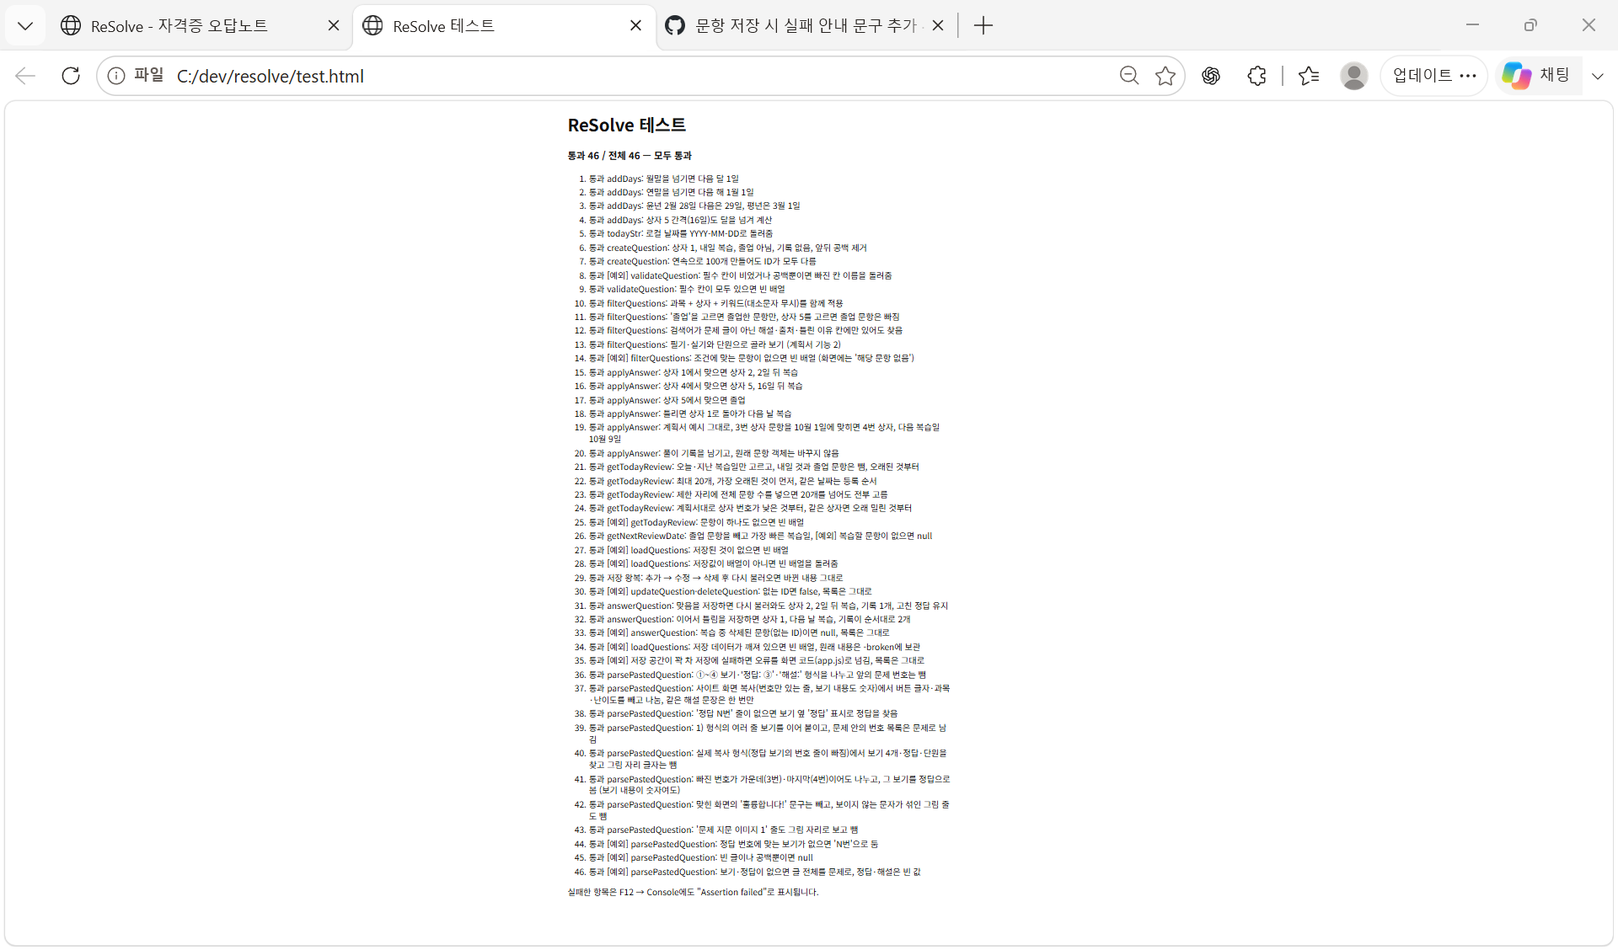
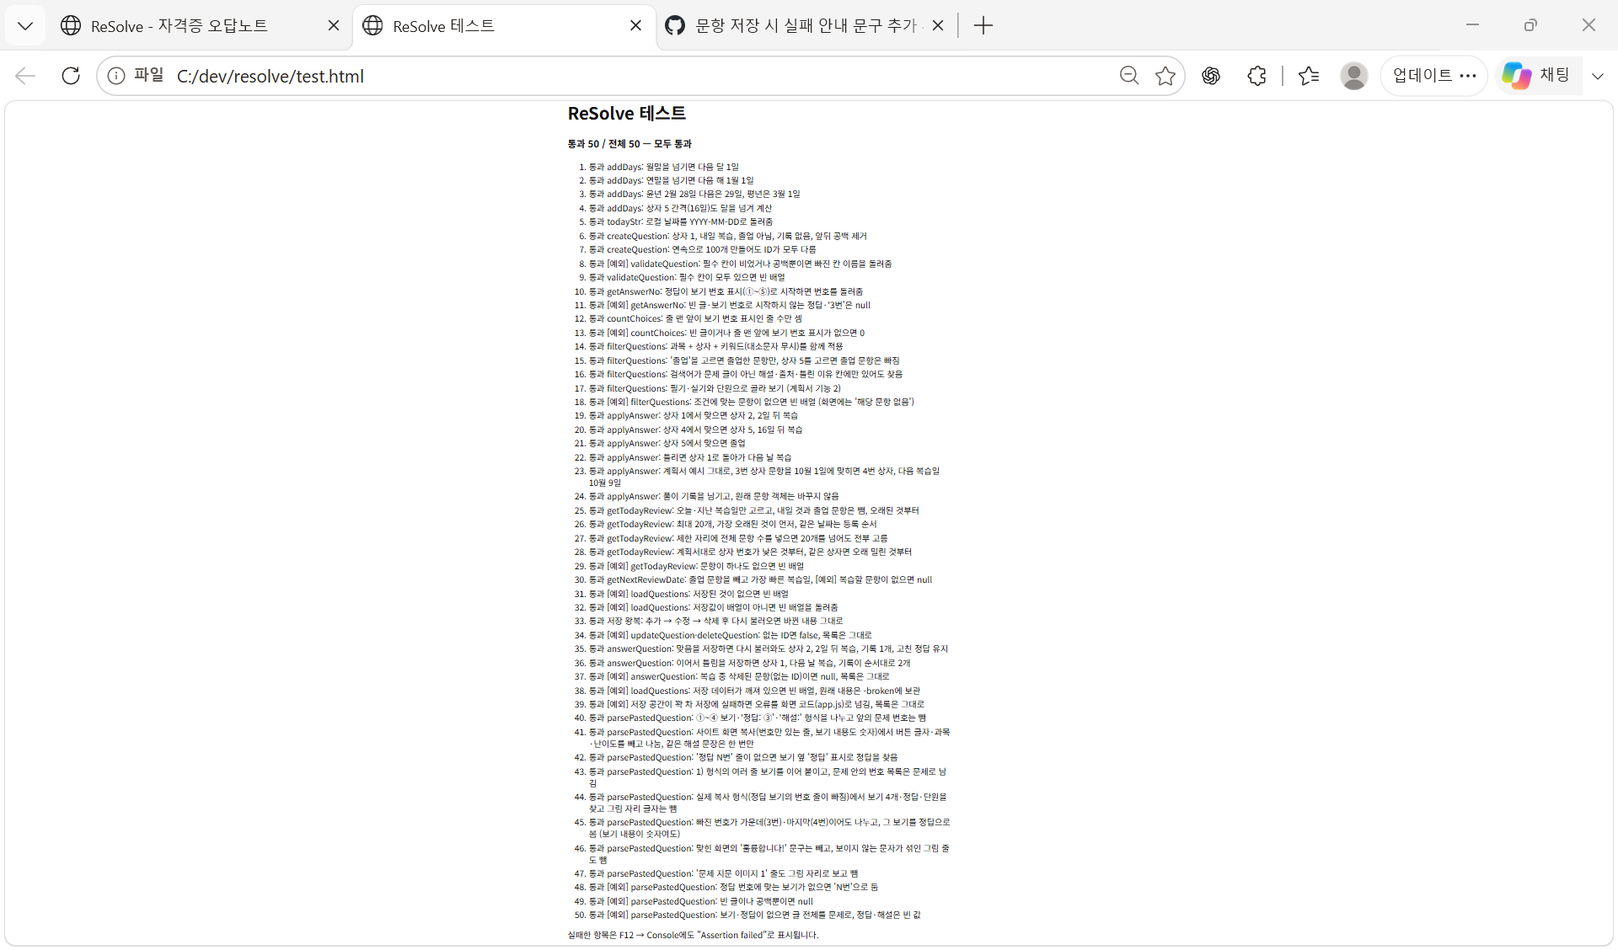
객관식 문항은 보기 번호를 골라 바로 채점하는 기능 추가 (테스트 46개 → 50개)
- 정답이 보기 번호로 시작하고 문제에 그 번호까지 보기가 있으면, 정답 보기 대신 번호 버튼을 보여 주고 고르는 즉시 채점
- 고른 뒤에는 번호를 바꿀 수 없고, 정답·해설과 결과를 보여 준 뒤 다음 문제를 누르면 저장
- 실기 등 보기가 없는 문항은 기존처럼 정답 보기 후 맞았어요 또는 틀렸어요로 스스로 채점
- models.js에 getAnswerNo, countChoices 추가, 테스트 4개 추가 (예외 2개)
- Copilot Agent가 같은 상수를 models.js와 app.js에 두 번 선언해 화면이 멈춘 문제를 찾아 app.js 쪽 선언 삭제
- 번호 버튼 사이 간격 추가
- README: 채점 방식 계획 변경과 이유, 테스트 50개, 디버깅 사례 반영

Changed region(s): [[0.3438, 0.0931, 0.5938, 0.9929]]

diff --git a/app.js b/app.js
@@ -300,7 +300,10 @@ const quizAnswerTextEl = document.getElementById("quiz-answer-text");
 const quizExplBox = document.getElementById("quiz-explanation-box");
 const quizExplEl = document.getElementById("quiz-explanation");
 const showAnswerBtn = document.getElementById("show-answer");
+const quizChoiceEl = document.getElementById("quiz-choice");
 const judgeEl = document.getElementById("judge");
+const quizNextBtn = document.getElementById("quiz-next");
+const stopReviewBtn = document.getElementById("stop-review");
 const quizLastEl = document.getElementById("quiz-last");
 const reviewDoneEl = document.getElementById("review-done");
 const reviewResultEl = document.getElementById("review-result");
@@ -311,6 +314,7 @@ const reviewMsgEl = document.getElementById("review-msg");
  * 다른 화면에 다녀와도 이어서 풀 수 있게 화면과 따로 보관한다.
  */
 let session = null;
+let pendingChoiceResult = null;
 
 /** 복습 화면의 세 부분(시작 / 퀴즈 / 결과) 중 하나만 보여 준다. */
 function showReviewPart(part) {
@@ -389,16 +393,63 @@ function showQuizItem() {
   quizExplBox.classList.toggle("hidden", !q.explanation);
 
   quizAnswerEl.classList.add("hidden");
-  judgeEl.classList.add("hidden");
-  showAnswerBtn.classList.remove("hidden");
+  pendingChoiceResult = null;
+  quizChoiceEl.classList.add("hidden");
+  quizChoiceEl.textContent = "";
+  quizNextBtn.classList.add("hidden");
+  stopReviewBtn.classList.remove("hidden");
+
+  const answerNo = getAnswerNo(q.answer);
+  const choiceCount = countChoices(q.question);
+  const useChoiceButtons = answerNo !== null && answerNo <= choiceCount;
+  if (useChoiceButtons) {
+    for (let i = 1; i <= choiceCount; i++) {
+      const btn = document.createElement("button");
+      btn.type = "button";
+      btn.textContent = CHOICE_MARKS[i - 1];
+      btn.addEventListener("click", () => chooseAnswer(i, answerNo));
+      quizChoiceEl.appendChild(btn);
+    }
+    showAnswerBtn.classList.add("hidden");
+    judgeEl.classList.add("hidden");
+    quizChoiceEl.classList.remove("hidden");
+  } else {
+    judgeEl.classList.add("hidden");
+    showAnswerBtn.classList.remove("hidden");
+  }
   showReviewPart("quiz");
 }
 
-/** 정답과 해설을 펼치고 맞음/틀림 버튼을 보여 준다. */
+/** 정답과 해설을 펼친다. */
 function revealAnswer() {
   quizAnswerEl.classList.remove("hidden");
+}
+
+/** 정답과 해설을 펼치고 맞음/틀림 버튼을 보여 준다. */
+function revealAnswerAndJudge() {
+  revealAnswer();
   showAnswerBtn.classList.add("hidden");
   judgeEl.classList.remove("hidden");
+}
+
+/** 객관식 번호를 고르면 즉시 채점 결과를 보여 준다. */
+function chooseAnswer(chosenNo, answerNo) {
+  quizChoiceEl.querySelectorAll("button").forEach(btn => {
+    btn.disabled = true;
+  });
+  revealAnswer();
+  const correct = chosenNo === answerNo;
+  pendingChoiceResult = correct;
+  if (correct) {
+    quizLastEl.textContent = "맞았습니다";
+  } else {
+    quizLastEl.textContent = "틀렸습니다 (고른 답 " + chosenNo + "번, 정답 " + answerNo + "번)";
+  }
+  quizChoiceEl.classList.add("hidden");
+  showAnswerBtn.classList.add("hidden");
+  judgeEl.classList.add("hidden");
+  stopReviewBtn.classList.add("hidden");
+  quizNextBtn.classList.remove("hidden");
 }
 
 /**
@@ -413,7 +464,7 @@ function markAnswer(correct) {
     updated = answerQuestion(id, correct, todayStr());
   } catch (e) {
     showSaveError(reviewMsgEl);
-    return;
+    return false;
   }
   reviewMsgEl.textContent = "";
 
@@ -428,6 +479,7 @@ function markAnswer(correct) {
   }
   session.index++;
   showQuizItem();
+  return true;
 }
 
 /** 복습을 끝내고 결과를 보여 준다. (그만하기로 중간에 끝내도 같음) */
@@ -446,10 +498,14 @@ function finishReview() {
 }
 
 startReviewBtn.addEventListener("click", startReview);
-showAnswerBtn.addEventListener("click", revealAnswer);
+showAnswerBtn.addEventListener("click", revealAnswerAndJudge);
+quizNextBtn.addEventListener("click", () => {
+  if (pendingChoiceResult === null) return;
+  markAnswer(pendingChoiceResult);
+});
 document.getElementById("mark-correct").addEventListener("click", () => markAnswer(true));
 document.getElementById("mark-wrong").addEventListener("click", () => markAnswer(false));
-document.getElementById("stop-review").addEventListener("click", finishReview);
+stopReviewBtn.addEventListener("click", finishReview);
 document.getElementById("back-review").addEventListener("click", renderReview);
 
 // 처음 열면 오늘의 복습 화면부터 보여 준다

diff --git a/test.html b/test.html
@@ -79,6 +79,16 @@
     check("validateQuestion: 필수 칸이 모두 있으면 빈 배열",
       validateQuestion({ subject: "SQLD", question: "문제", answer: "정답" }).length === 0);
 
+    check("getAnswerNo: 정답이 보기 번호 표시(①~⑤)로 시작하면 번호를 돌려줌",
+      getAnswerNo("③ SELECT") === 3 && getAnswerNo("①") === 1 && getAnswerNo("⑤ 마지막") === 5);
+    check("[예외] getAnswerNo: 빈 글·보기 번호로 시작하지 않는 정답·'3번'은 null",
+      getAnswerNo("") === null && getAnswerNo("정답") === null && getAnswerNo("3번") === null);
+
+    check("countChoices: 줄 맨 앞이 보기 번호 표시인 줄 수만 셈",
+      countChoices("문제\n① A\n② B\n설명 ③ C\n④ D") === 3);
+    check("[예외] countChoices: 빈 글이거나 줄 맨 앞에 보기 번호 표시가 없으면 0",
+      countChoices("") === 0 && countChoices("문제\n ① A\n보기 ② B") === 0);
+
     const pool = [
       sample({ id: "a", subject: "SQLD", question: "조인 종류", box: 2 }),
       sample({ id: "b", subject: "ADsP", question: "회귀 분석", box: 2 }),

diff --git a/index.html b/index.html
@@ -24,6 +24,7 @@
     #cancel-edit { background: #fff; color: #111; border: 1px solid #111; }
     button.sub { background: #fff; color: #111; border: 1px solid #111; }
     .answer-label { margin: 12px 0 0; font-size: 13px; font-weight: bold; }
+    #quiz-choice button { margin-right: 4px; }
     #quiz-progress, #quiz-last { font-size: 13px; color: #555; }
     #review-result { white-space: pre-line; }
     details { margin-top: 8px; border: 1px solid #ccc; padding: 8px 12px; }
@@ -65,10 +66,12 @@
         </div>
       </div>
       <button type="button" id="show-answer">정답 보기</button>
+      <span id="quiz-choice" class="hidden"></span>
       <span id="judge" class="hidden">
         <button type="button" id="mark-correct">맞았어요</button>
         <button type="button" id="mark-wrong" class="sub">틀렸어요</button>
       </span>
+      <button type="button" id="quiz-next" class="hidden">다음 문제</button>
       <button type="button" id="stop-review" class="sub">그만하기</button>
       <p id="quiz-last"></p>
     </div>

diff --git a/models.js b/models.js
@@ -51,6 +51,32 @@ function validateQuestion(input) {
   if (!input.answer.trim()) missing.push("정답");
   return missing;
 }
+
+const CHOICE_MARKS = ["①", "②", "③", "④", "⑤"];
+
+/**
+ * 정답 글이 보기 번호 표시(①~⑤)로 시작하면 번호를 돌려준다.
+ * @param {string} answer 정답 글
+ * @returns {number|null} 1~5 또는 null
+ */
+function getAnswerNo(answer) {
+  if (typeof answer !== "string" || !answer) return null;
+  const i = CHOICE_MARKS.indexOf(answer[0]);
+  return i >= 0 ? i + 1 : null;
+}
+
+/**
+ * 문제 글에서 줄 맨 앞이 보기 번호 표시(①~⑤)인 줄 개수를 센다.
+ * @param {string} question 문제 글
+ * @returns {number}
+ */
+function countChoices(question) {
+  if (typeof question !== "string" || !question) return 0;
+  return question
+    .split(/\r?\n/)
+    .filter(line => /^[①②③④⑤]/.test(line))
+    .length;
+}
 /**
  * 조회 조건에 맞는 문항만 골라낸다. 조건이 빈 값이면 그 조건은 검사하지 않는다.
  * @param {Question[]} list

diff --git a/README.md b/README.md
@@ -8,7 +8,7 @@ IT 자격증은 필기, 실기 모두 보통 회차별 기출문제를 반복해
 
 - 목표 사용자: 전공 무관 모든 IT 자격증 응시자
 - 1차 대상: 컴퓨터활용능력, 정보처리산업기사, SQLD, ADsP처럼 회차별 기출문제를 반복해서 풀며 준비하는 IT 자격증 응시자
-- 채점: 실기도 코드 실행이나 엑셀 결과 확인 같은 자동 채점은 하지 않고, 사용자가 정답과 비교해 스스로 채점합니다.
+- 채점: 보기와 정답 번호가 있는 객관식은 보기 번호를 먼저 골라 바로 채점합니다. 실기처럼 보기가 없는 문항은 코드 실행이나 엑셀 결과 확인 같은 자동 채점을 하지 않고, 사용자가 정답과 비교해 스스로 채점합니다.
 
 복습 날짜는 복습 간격을 점점 늘려 가는 Leitner 상자 방식으로 정합니다. 맞히면 다음 상자로, 틀리면 1번 상자로 옮깁니다.
 
@@ -58,8 +58,10 @@ IT 자격증은 필기, 실기 모두 보통 회차별 기출문제를 반복해
 
 **오늘의 복습**
 1. 첫 화면에 오늘 복습할 문항 수가 나옵니다. 복습 날짜가 오늘이거나 지난 문항이 대상이고, 상자 번호가 낮은 것부터, 같은 상자면 오래 밀린 것부터 최대 20개를 냅니다. 복습할 문항이 없으면 다음 복습일을 알려 줍니다.
-2. 복습 시작 → 문제를 보고 답을 떠올린 뒤 정답 보기 → 정답과 비교해 맞았어요 / 틀렸어요 중 하나를 누릅니다.
-3. 누를 때마다 바로 저장되고, 방금 문항이 몇 번 상자로 옮겨졌는지와 다음 복습일이 표시됩니다.
+2. 복습 시작을 누르면 문제가 나옵니다.
+   - 객관식(보기와 정답 번호가 있는 문항): 보기 번호 버튼 중 하나를 고르면 바로 "맞았습니다" 또는 "틀렸습니다 (고른 답, 정답)"가 나오고 정답과 해설이 펼쳐집니다. 다음 문제를 누르면 결과가 저장됩니다. 한 번 고른 번호는 바꿀 수 없습니다.
+   - 실기 등 보기가 없는 문항: 답을 떠올린 뒤 정답 보기를 누르고, 정답과 비교해 맞았어요 / 틀렸어요 중 하나를 누릅니다.
+3. 결과가 저장되면 방금 문항이 몇 번 상자로 옮겨졌는지와 다음 복습일이 표시됩니다.
 4. 다 풀거나 그만하기를 누르면 푼 문항 수와 맞음·틀림 수가 나옵니다. 풀지 않은 문항은 복습일이 그대로라 다음에 다시 나옵니다.
 5. 복습 중에 다른 화면에 다녀와도 풀던 문제부터 이어서 풉니다.
 
@@ -79,7 +81,7 @@ saveQuestions(loadQuestions().map(q => ({ ...q, nextReview: todayStr() })))
 ## 5. 테스트 실행 방법
 
 1. 내려받은 폴더에서 `test.html`을 더블클릭해 브라우저로 엽니다. 명령어로 열려면 Windows 명령 프롬프트에서 폴더로 이동한 뒤 `start test.html`을 입력합니다.
-2. 화면 맨 위에 "통과 46 / 전체 46 — 모두 통과"가 나오면 성공입니다. 테스트마다 통과/실패가 한 줄씩 표시됩니다.
+2. 화면 맨 위에 "통과 50 / 전체 50 — 모두 통과"가 나오면 성공입니다. 테스트마다 통과/실패가 한 줄씩 표시됩니다.
 3. 실패한 테스트는 F12 → Console에도 `Assertion failed`로 표시됩니다.
 
 참고
@@ -88,12 +90,12 @@ saveQuestions(loadQuestions().map(q => ({ ...q, nextReview: todayStr() })))
 - 깨진 저장 데이터를 일부러 넣어 보는 테스트가 있어서, Console에 빨간 오류 1줄("저장된 데이터를 읽지 못했습니다…")이 나오는 것은 정상입니다.
 - 날짜를 다루는 테스트는 오늘 날짜를 2026-11-19로 고정해 언제 실행해도 결과가 같습니다.
 
-테스트 46개 구성 (예외 상황 13개, 이름 앞에 [예외] 표시)
+테스트 50개 구성 (예외 상황 15개, 이름 앞에 [예외] 표시)
 
 | 대상 | 개수 | 확인하는 내용 |
 |---|---|---|
 | 날짜 계산 (addDays, todayStr) | 5 | 월말·연말·윤년 넘기기, 16일 간격, 로컬 날짜 |
-| 문항 만들기·입력 검사 (createQuestion, validateQuestion) | 4 | 새 문항 기본값, ID 100개 중복 없음, 필수 칸 비었을 때 |
+| 문항 만들기·입력 검사·보기 번호 (createQuestion, validateQuestion, getAnswerNo, countChoices) | 8 | 새 문항 기본값, ID 100개 중복 없음, 필수 칸 비었을 때, 정답의 보기 번호 읽기, 줄 맨 앞 보기 수 세기, 보기 번호가 없을 때 |
 | 조회와 검색 (filterQuestions) | 5 | 과목·상자·키워드 함께 적용, 필기·실기와 단원, 졸업 구분, 해설 등 다른 칸에서 찾기, 맞는 문항이 없을 때 |
 | 복습 날짜 계산 (applyAnswer) | 6 | 맞음·틀림·완료(졸업), 계획서 예시(3번 상자 10/1 → 10/9), 원래 문항을 바꾸지 않음 |
 | 오늘의 복습 (getTodayReview, getNextReviewDate) | 6 | 오늘·지난 것만, 상자 번호 낮은 순과 오래 밀린 순, 최대 20개, 빈 목록, 다음 복습일 |
@@ -108,8 +110,8 @@ saveQuestions(loadQuestions().map(q => ({ ...q, nextReview: todayStr() })))
 |---|---|---|---|
 | 1 | 오답 문항 등록 | 완성 | 필수 칸이 비어 있으면 저장하지 않고 안내함. 브라우저를 닫았다 다시 열어도 문항이 남아 있음. 수정 후 저장하면 바로 반영되고, 삭제한 문항은 새로고침 후에도 나오지 않음. 새 문항은 1번 상자에 들어감. 필수 칸은 계획서의 5칸에서 3칸으로 바꿈(7장) |
 | 2 | 문항 조회와 검색 | 완성 | 과목 목록에서 SQLD를 고르면 SQLD 문항만 나옴. 필기·실기, 단원, 상자 번호, 키워드로도 골라 보고 조건을 함께 적용함. 결과가 없으면 "해당 문항 없음"을 출력함 |
-| 3 | 복습 날짜 계산 | 완성 | console.assert 테스트 10개 이상 통과(46개). 맞히면 다음 상자, 틀리면 1번 상자, 5번 상자에서 맞히면 완료. 계획서 예시(3번 상자 문항을 10월 1일에 맞히면 4번 상자, 다음 복습일 10월 9일)를 그대로 테스트로 확인함 |
-| 4 | 오늘의 복습 | 완성 | 복습 날짜가 오늘이거나 지난 문항을 상자 번호가 낮은 것부터, 같으면 오래 밀린 것부터 최대 20개 냄. 정답을 본 뒤 맞았는지 입력하면 상자를 옮기고 기록을 남김. 복습할 문항이 없으면 그렇다고 알려 줌. 퀴즈 후 문항의 상자와 다음 복습 날짜가 바뀌어 있음 |
+| 3 | 복습 날짜 계산 | 완성 | console.assert 테스트 10개 이상 통과(50개). 맞히면 다음 상자, 틀리면 1번 상자, 5번 상자에서 맞히면 완료. 계획서 예시(3번 상자 문항을 10월 1일에 맞히면 4번 상자, 다음 복습일 10월 9일)를 그대로 테스트로 확인함 |
+| 4 | 오늘의 복습 | 완성 | 복습 날짜가 오늘이거나 지난 문항을 상자 번호가 낮은 것부터, 같으면 오래 밀린 것부터 최대 20개 냄. 객관식은 보기 번호를 골라 바로 채점하고, 보기가 없는 문항은 정답을 본 뒤 맞았는지 입력하면 상자를 옮기고 기록을 남김. 복습할 문항이 없으면 그렇다고 알려 줌. 퀴즈 후 문항의 상자와 다음 복습 날짜가 바뀌어 있음 |
 
 추가 기능 (계획서 3장 5~7번)
 
@@ -126,7 +128,7 @@ saveQuestions(loadQuestions().map(q => ({ ...q, nextReview: todayStr() })))
 | 1 | 성능 | 부분 완성 | 계획서 방법대로 연습용 문항 1,000개를 자동으로 넣고 크롬에서 5번 재서 평균을 냄. 복습 목록 만들기 평균 약 0.003초, 조회 목록 1,000개 표시 평균 약 0.008초로 1초를 넘지 않음. 통계 계산은 학습 통계를 만들지 않아 재지 못함 |
 | 2 | 사용성 | 부분 완성 | `index.html`을 더블클릭하면 바로 시작하고, 화면의 버튼만으로 모든 기능을 씀. 빈칸이나 공백만 넣으면 저장하지 않고 다시 입력하라고 알려 줌. 잘못된 입력 10가지(모두 빈칸, 공백만, 과목만, 정답 없음, HTML 태그, 1만 자 글, 따옴표·역슬래시, JSON 모양 글, 이모지·특수문자, 여러 줄 답)를 넣어 봤고 화면이 멈추거나 데이터가 깨지지 않음. HTML 태그도 글자 그대로 표시됨. 비전공자 2명 사용 시험은 하지 못함 |
 | 3 | 데이터 안전 | 부분 완성 | 데이터는 localStorage에 저장함. JSON 파일로 내보내고 다시 불러오는 백업 기능은 만들지 못함. 대신 저장된 데이터가 깨져 있으면 지우지 않고 `resolve-questions-broken`에 따로 보관하고, 저장에 실패하면 입력한 내용을 지우지 않고 안내함. 설명서(이 README)에 같은 브라우저로 열라고 안내함 |
-| 4 | 실행 환경 및 코드 관리 | 완성 | 설치나 서버 없이 파일만 열어 실행됨. 함수 38개 모두에 설명 주석(JSDoc)을 달아 둠. 다른 컴퓨터의 엣지에서는 아직 확인하지 않음 |
+| 4 | 실행 환경 및 코드 관리 | 완성 | 설치나 서버 없이 파일만 열어 실행됨. 함수 42개 모두에 설명 주석(JSDoc)을 달아 둠. 다른 컴퓨터의 엣지에서는 아직 확인하지 않음 |
 
 ## 7. 계획 변경 사항
 
@@ -144,7 +146,8 @@ saveQuestions(loadQuestions().map(q => ({ ...q, nextReview: todayStr() })))
 | 6주차 계획 보완 | 수정한 계획서 작성 | 이 README의 계획 변경 사항으로 대신함 | 계획을 다시 짠 시점이 구현 직전이라 따로 계획서를 만들지 않고 바뀐 점을 여기에 모음 |
 | 저장 방식 | localStorage로 시작하고 IndexedDB 전환 검토 | localStorage 유지 | 계획서에 "IndexedDB 전환이 늦어지면 localStorage를 그대로 사용"으로 정해 둔 대로 함. 1,000문항에서도 속도 문제가 없었음 |
 | 파일 구성 | stats.js(통계), storage.js(저장과 백업) | stats.js 삭제, parser.js 추가, storage.js는 저장만 | 통계와 백업을 만들지 않아 빈 파일을 지우고, 붙여넣기 기능 파일을 새로 만듦 |
-| 테스트 수 | 10개 이상 | 46개 | 코드 리뷰와 Copilot 제안을 반영하면서 예외 상황 테스트를 늘림 |
+| 채점 방식 | 실기도 자동 채점은 하지 않고, 정답과 비교해 스스로 채점 | 객관식은 보기 번호를 먼저 골라 바로 채점, 보기가 없는 문항은 계획서대로 스스로 채점 | 정답을 먼저 보고 스스로 채점하면 "알았던 것 같다"며 맞았어요를 누르기 쉬움. 실제 시험처럼 답을 먼저 고르게 해야 복습 기록이 정확해짐 |
+| 테스트 수 | 10개 이상 | 50개 | 코드 리뷰와 Copilot 제안을 반영하면서 예외 상황 테스트를 늘림 |
 | 문항 번호(ID) | 등록할 때 번호를 붙여 저장 (처음에는 Date.now() 사용) | crypto.randomUUID() 사용 | 코드 리뷰에서 같은 번호가 생길 수 있다는 지적을 받고 직접 재현해 확인함 (10장 참고) |
 
 ## 8. 파일 구조
@@ -155,11 +158,11 @@ saveQuestions(loadQuestions().map(q => ({ ...q, nextReview: todayStr() })))
 |---|---|
 | index.html | 화면 구성 (오늘의 복습·등록·조회) |
 | app.js | 화면 전환과 입력 처리, 퀴즈 진행, 저장 실패 안내 |
-| models.js | 데이터 구조(문항 항목 13개), 새 문항 만들기, 입력 검사, 조회 조건 거르기 |
+| models.js | 데이터 구조(문항 항목 13개), 새 문항 만들기, 입력 검사, 조회 조건 거르기, 정답의 보기 번호 읽기 |
 | parser.js | 붙여넣은 문제 글을 단원·문제·보기·정답·해설로 나누기 (계획서에 없던 파일) |
 | storage.js | localStorage 저장·불러오기·수정·삭제, 퀴즈 결과 저장, 깨진 데이터 보관 |
 | scheduler.js | 복습 날짜 계산, 상자 이동, 오늘 복습할 문항 고르기 |
-| test.html | 테스트 46개 |
+| test.html | 테스트 50개 |
 | .gitignore | `data/` 폴더 제외 (실제 시험 문제·답을 공개 저장소에 올리지 않기 위함) |
 
 저장 코드를 storage.js 한 파일에 모아 두어, 나중에 저장 방식을 IndexedDB로 바꿔도 다른 파일은 그대로 둘 수 있습니다. 스크립트는 `models.js → parser.js → storage.js → scheduler.js → app.js` 순서로 불러옵니다. 파일을 더블클릭해 여는 방식(`file://`)에서는 `type="module"`이 동작하지 않아 일반 스크립트로 연결했습니다.
@@ -183,6 +186,8 @@ saveQuestions(loadQuestions().map(q => ({ ...q, nextReview: todayStr() })))
 ### 디버깅
 
 붙여넣기 기능을 만든 뒤 실제 문제 사이트에서 복사한 글을 넣어 보니 보기를 하나도 찾지 못했습니다. 복사한 글을 줄 단위로 살펴보니 사이트가 정답 보기의 번호 자리에 체크 아이콘을 넣어 두어서, 복사하면 그 보기의 번호 줄만 빠져 있었습니다. 그래서 번호에만 기대지 않고 "보기 선택 (N지선다)" 줄 뒤에서 N개를 읽고, 빠진 번호를 채운 뒤 그 보기를 정답 후보로 보도록 고쳤습니다. 두 번째 시험에서는 맞힌 화면에서 복사하면 "훌륭합니다! 연속 정답 콤보…" 문구가 마지막 보기 뒤에 붙고, 지웠어야 할 "문제 자료 이미지 1" 줄이 그대로 남았습니다. 남은 줄은 화면으로는 같아 보여도 폭이 0인 보이지 않는 문자가 섞여 있어 비교에 실패한 것이었습니다. 버튼 문구 목록을 추가하고 모든 줄에서 보이지 않는 문자를 먼저 지우도록 고친 뒤, 이 두 경우를 테스트로 남겼습니다.
+
+객관식 번호 고르기 기능을 Copilot Agent에 맡긴 뒤에는 test.html이 50개 모두 통과했는데도 index.html을 열면 오늘의 복습 화면이 비어 있고 어떤 버튼도 동작하지 않았습니다. Console에 "Identifier 'CHOICE_MARKS' has already been declared" 오류가 있었고, Copilot이 같은 이름의 상수를 models.js와 app.js에 각각 `const`로 만든 것이 원인이었습니다. 모듈 없이 불러오는 스크립트는 전역 범위를 같이 써서 두 번째 선언에서 app.js 전체가 멈춘 것입니다. test.html은 app.js를 불러오지 않아 테스트로는 잡히지 않았습니다. app.js 쪽 선언을 지워 고쳤고, 그 뒤로는 테스트 통과와 함께 화면을 직접 열어 확인하는 것을 꼭 거치고 있습니다.
 
 ### 코드 리뷰 반영
 
